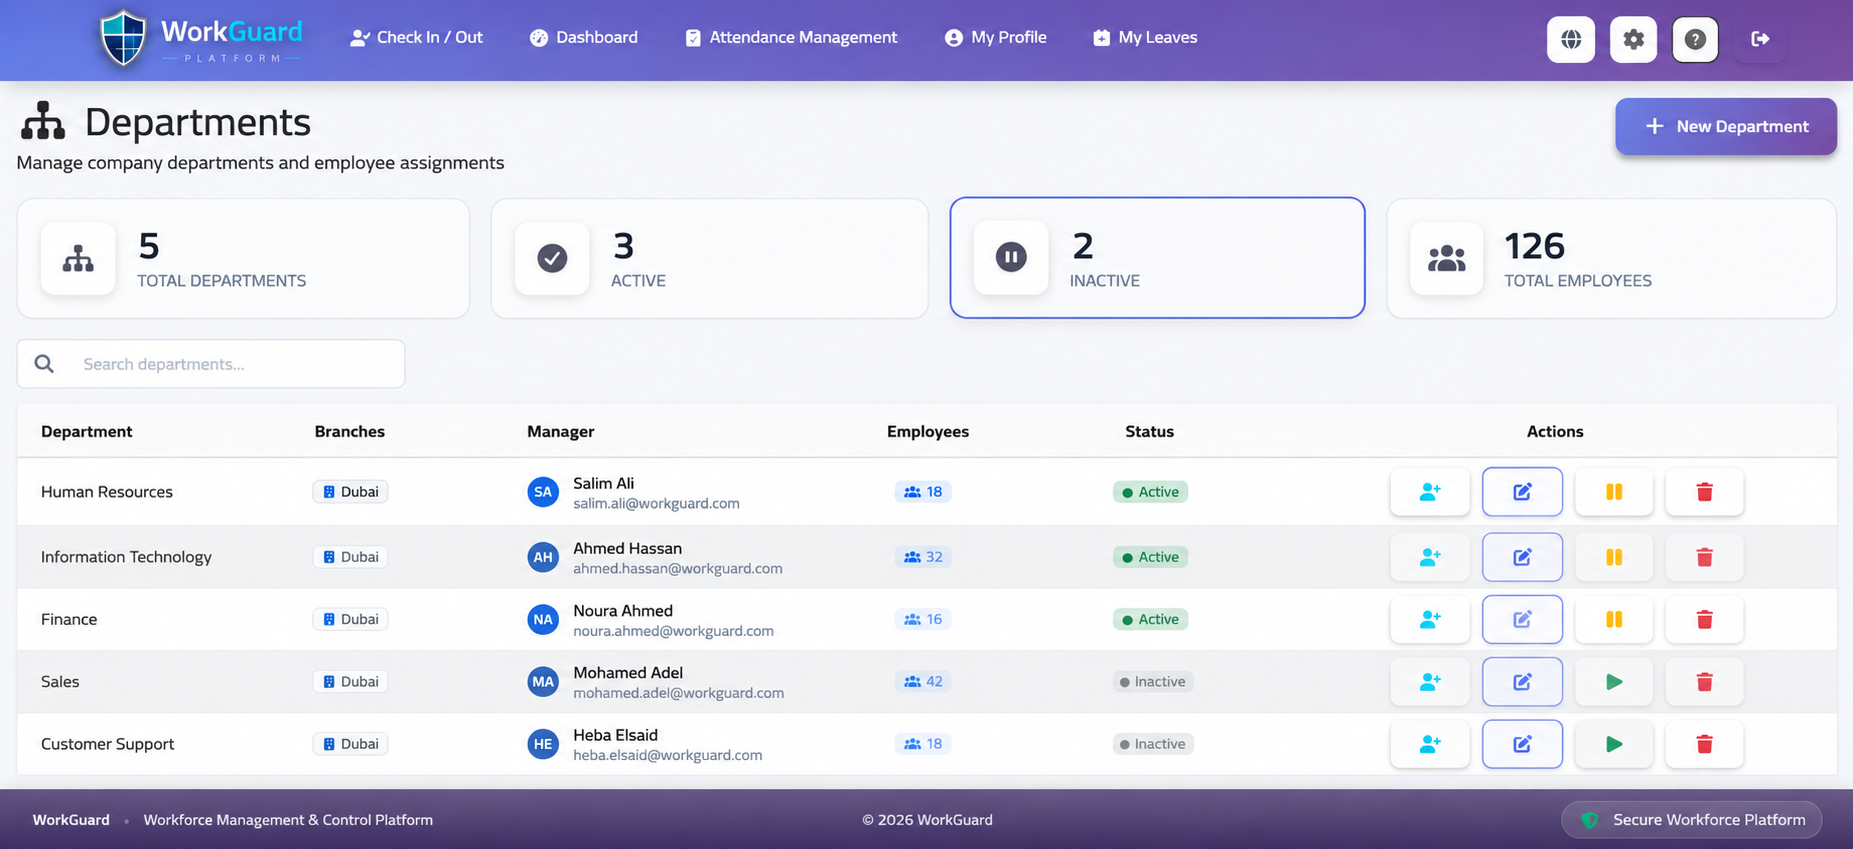
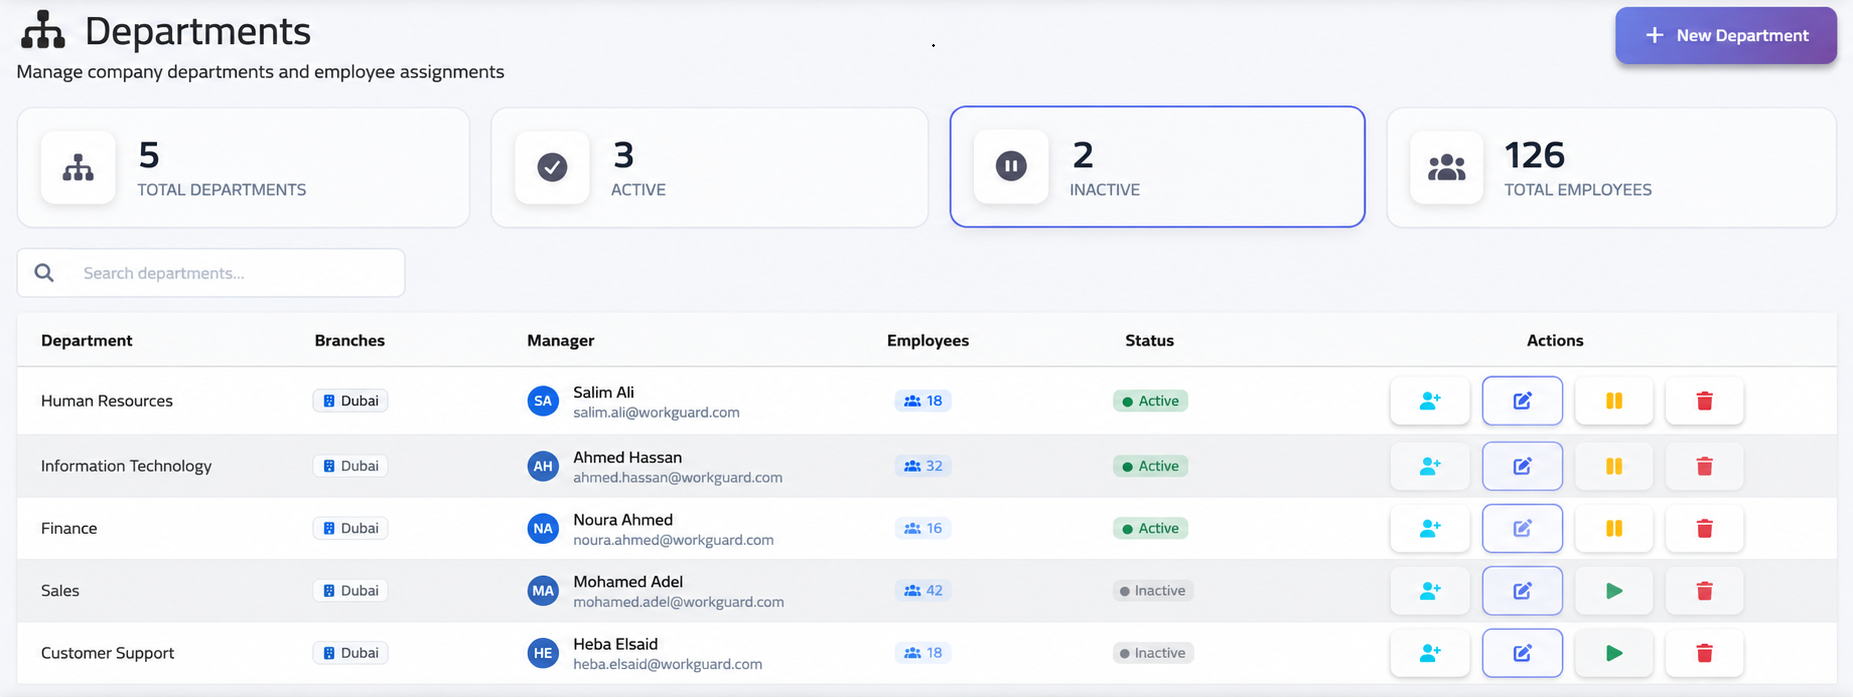
docs: update WorkGuard docs, screenshots, and branding

diff --git a/src/pages/admin/EmployeeManagement.jsx b/src/pages/admin/EmployeeManagement.jsx
@@ -52,24 +52,6 @@ export default function EmployeeManagement() {
           </table>
         </div>
 
-        <h3>Work Schedule</h3>
-        <div className="wg-table-wrap">
-          <table className="wg-table">
-            <thead><tr><th>Field</th><th>Description</th></tr></thead>
-            <tbody>
-              <tr><td>Shift Start Time</td><td>The time the employee's shift begins — e.g. <code>09:00</code></td></tr>
-              <tr><td>Shift End Time</td><td>The time the shift ends — e.g. <code>18:00</code></td></tr>
-              <tr><td>Working Days</td><td>The days of the week this employee is expected to work</td></tr>
-              <tr><td>Working Hours Per Day</td><td>Used to calculate hourly salary for deductions</td></tr>
-              <tr><td>Night Shift</td><td>Enable if the shift crosses midnight (e.g. 10 PM to 6 AM)</td></tr>
-              <tr><td>Personal Timezone</td><td>Overrides the branch timezone for this employee's shift calculations</td></tr>
-            </tbody>
-          </table>
-        </div>
-        <div className="wg-callout wg-callout--warning">
-          <span className="wg-callout__icon">⚠</span>
-          <div>Always confirm the correct timezone for each employee, especially for employees working across different cities or countries. An incorrect timezone causes incorrect late/early calculations.</div>
-        </div>
 
 <h3>Employment Dates</h3>
 
@@ -158,6 +140,29 @@ export default function EmployeeManagement() {
     attendance, payroll, or workforce reports.
   </div>
 </div>
+
+
+
+        <h3>Work Schedule</h3>
+        <div className="wg-table-wrap">
+          <table className="wg-table">
+            <thead><tr><th>Field</th><th>Description</th></tr></thead>
+            <tbody>
+              <tr><td>Shift Start Time</td><td>The time the employee's shift begins — e.g. <code>09:00</code></td></tr>
+              <tr><td>Shift End Time</td><td>The time the shift ends — e.g. <code>18:00</code></td></tr>
+              <tr><td>Working Days</td><td>The days of the week this employee is expected to work</td></tr>
+              <tr><td>Working Hours Per Day</td><td>Used to calculate hourly salary for deductions</td></tr>
+              <tr><td>Night Shift</td><td>Enable if the shift crosses midnight (e.g. 10 PM to 6 AM)</td></tr>
+              <tr><td>Personal Timezone</td><td>Overrides the branch timezone for this employee's shift calculations</td></tr>
+            </tbody>
+          </table>
+        </div>
+        <div className="wg-callout wg-callout--warning">
+          <span className="wg-callout__icon">⚠</span>
+          <div>Always confirm the correct timezone for each employee, especially for employees working across different cities or countries. An incorrect timezone causes incorrect late/early calculations.</div>
+        </div>
+
+
 
         <h3>Branch &amp; Department</h3>
         <div className="wg-table-wrap">

diff --git a/src/pages/public/EmployeeManagement.jsx b/src/pages/public/EmployeeManagement.jsx
@@ -54,7 +54,8 @@ export default function EmployeeManagement() {
  <tr><td>Role</td><td><code>Staff</code> for regular employees, <code>Admin</code> for managers</td></tr>
               
               <tr><td>Workforce Status</td><td>View & Control means this account manages the system but is not counted as an employee in attendance, payroll, or reports.</td></tr>
-
+ <tr><td>Phone</td><td>Contact number</td></tr>
+              <tr><td>Address</td><td>Physical address</td></tr>
              
             </tbody>
           </table>
